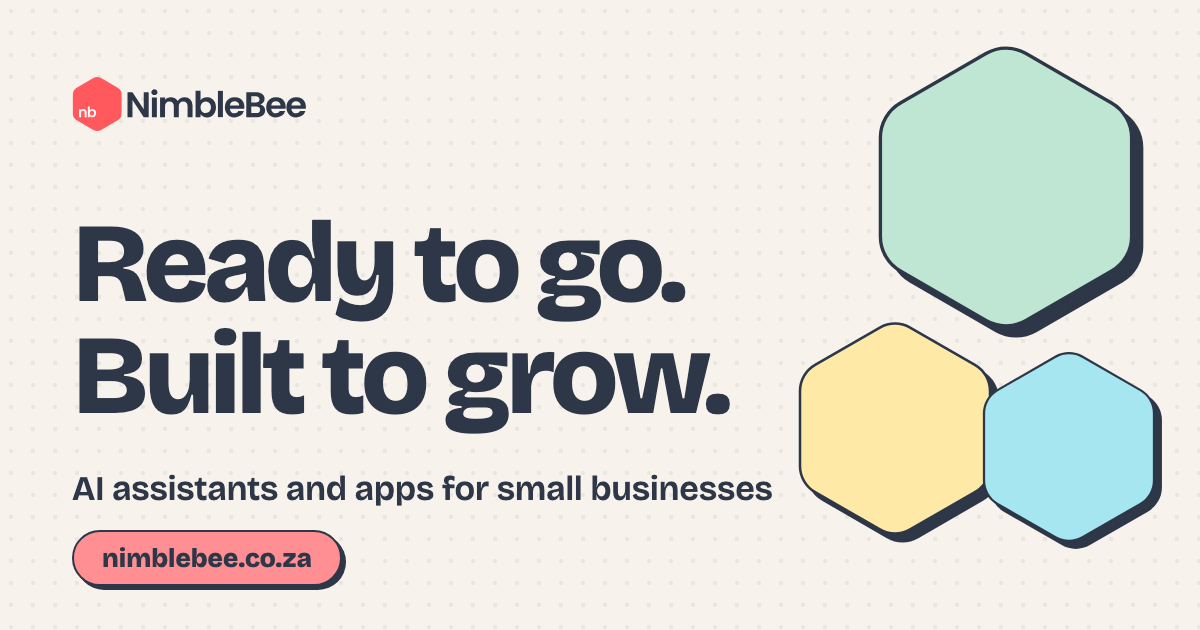
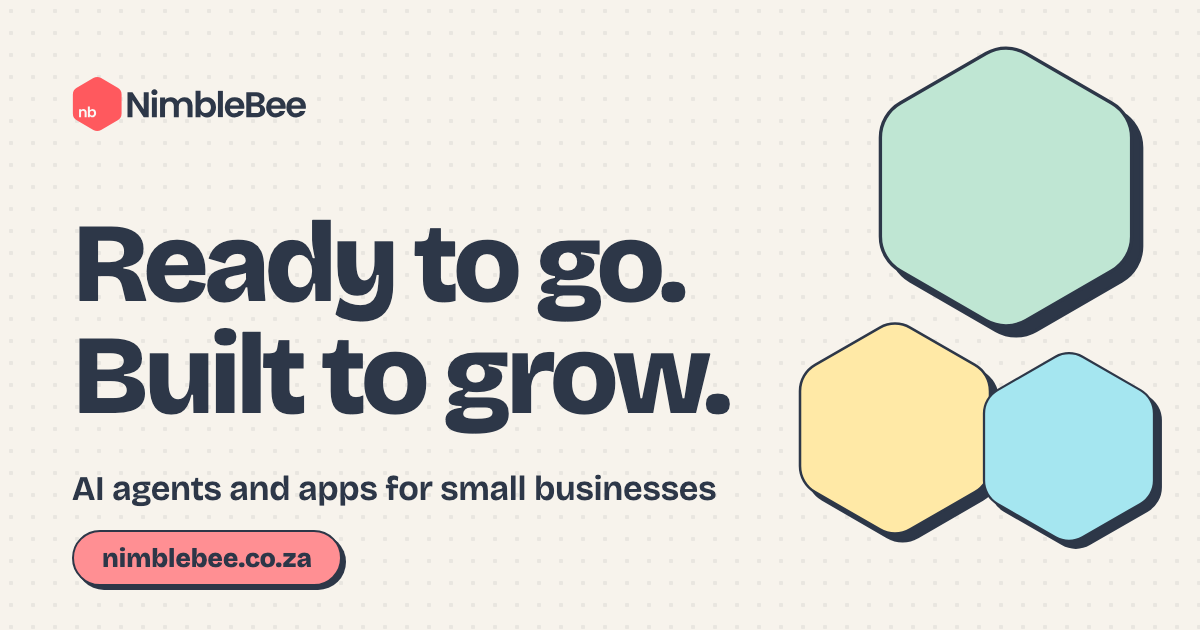
Hero: apply locked copy, six new "I need..." tiles, AI agents wording
- Eyebrow "Business power-up", new lede, tiles in offer order (AI agent, own app, website, training, admin sorted, talk it through)
- New AI agent, admin sorted and talk it through tiles; old Google listing, AI assistant and rocket tiles removed
- Title, meta description, og:description, twitter:description and og:image alt now say AI agents
- Share image re-exported with "AI agents and apps for small businesses"

Changed region(s): [[0.0925, 0.754, 0.6475, 0.8143]]

diff --git a/css/tiles.css b/css/tiles.css
@@ -1,5 +1,5 @@
 /* Hero "I need..." tiles: one mini system per need. Children size in cqw against .nt.
-   Tile order matches the locked list: a website, my Google listing sorted, a wiki, an AI assistant, an app I own, I'm not sure where to start.
+   Tile order matches the locked list: an AI agent, my own app, a website, training & how-to guides, my admin sorted, to talk it through.
    Base styles hold each tile's finished state, so reduced motion (animation: none) shows it without extra rules. */
 .nt{--f:var(--paper);position:relative;container-type:inline-size;border:var(--line) solid var(--ink);border-radius:4.4cqw;background:var(--f);box-shadow:var(--sh-md);overflow:hidden}
 .nt-stage{position:absolute;left:6cqw;right:6cqw;top:6cqw;bottom:19cqw;transition:opacity 300ms}
@@ -18,7 +18,6 @@
 .tiles .slot[role="button"]:hover .nt:not(.on) .nt-stage{opacity:.8}
 .tiles .nt.on{transform:translate(-2px,-3px) rotate(-2deg);box-shadow:var(--sh-lg);z-index:4}
 .tiles.all .nt .nt-stage{opacity:1}
-.tiles .nt.moon.on{z-index:6}
 
 /* Website: header, cards and button snap in; a cursor clicks the button */
 .web{height:100%;border:var(--line) solid var(--ink);border-radius:3cqw;background:var(--paper);overflow:hidden;display:flex;flex-direction:column}
@@ -36,26 +35,6 @@
 @keyframes wb-pop{0%{opacity:0;transform:translateY(-3cqw) scale(.6) rotate(-6deg)}8%{opacity:1;transform:scale(1.08) rotate(2deg)}12%,86%{opacity:1;transform:none}92%,100%{opacity:0;transform:scale(.8)}}
 @keyframes wb-click{0%,55%{background:var(--ink)}57%,84%{background:var(--coral)}90%,100%{background:var(--ink)}}
 @keyframes wb-cur{0%,28%{transform:translate(26cqw,14cqw);opacity:0}34%{opacity:1}50%{transform:none;scale:1}54%{scale:.78}58%,82%{transform:none;scale:1;opacity:1}90%,100%{transform:translate(10cqw,6cqw);opacity:0}}
-
-/* Google listing: a pin drops, the name fills in, five stars pop, then the call and route buttons */
-.gl{height:100%;border:var(--line) solid var(--ink);border-radius:3cqw;background:var(--paper);padding:2.6cqw 3cqw;display:flex;flex-direction:column;justify-content:space-between}
-.gl-top{display:flex;align-items:center;gap:2.6cqw}
-.gl-pin{flex:none;width:11cqw;aspect-ratio:156/180;animation:gl-pin 6s var(--ease) infinite}
-.gl-pin svg{width:100%;height:100%}
-.gl-nm{flex:1;display:flex;flex-direction:column;gap:1.8cqw}
-.gl-nm i{display:block;height:2.4cqw;border-radius:9px;background:var(--ink);transform-origin:left;animation:gl-bar 6s cubic-bezier(.4,0,.2,1) infinite}
-.gl-nm i:first-child{width:80%}
-.gl-nm i:last-child{width:50%;opacity:.22;animation-delay:.14s}
-.gl-st{display:flex;gap:1.2cqw}
-.gl-st svg{width:6.6cqw;aspect-ratio:156/180;animation:gl-pop 6s var(--ease) infinite backwards}
-.nt .gl-st .hxs path{fill:var(--butter)}
-.gl-st svg:nth-child(2){animation-delay:.14s}.gl-st svg:nth-child(3){animation-delay:.28s}.gl-st svg:nth-child(4){animation-delay:.42s}.gl-st svg:nth-child(5){animation-delay:.56s}
-.gl-bt{display:flex;gap:2cqw}
-.gl-bt i{display:block;flex:1;height:6cqw;border:var(--line) solid var(--ink);border-radius:var(--r-pill);background:var(--pink);animation:gl-pop 6s var(--ease) 1.6s infinite backwards}
-.gl-bt i+i{background:var(--mint);animation-delay:1.8s}
-@keyframes gl-pin{0%,3%{opacity:0;transform:translateY(-9cqw) scale(.7)}9%{opacity:1;transform:translateY(1.2cqw) scale(1.08)}13%,86%{opacity:1;transform:none}92%,100%{opacity:0;transform:scale(.8)}}
-@keyframes gl-bar{0%,8%{transform:scaleX(0)}20%,86%{transform:none}92%,100%{transform:scaleX(0)}}
-@keyframes gl-pop{0%,2%{opacity:0;transform:scale(.2) rotate(-14deg)}8%{opacity:1;transform:scale(1.25) rotate(3deg)}12%,84%{opacity:1;transform:none}90%,100%{opacity:0;transform:scale(.4)}}
 
 /* Wiki: pages in the sidebar light up in turn and the page fills with text, then a link pill pops */
 .wk{height:100%;display:grid;grid-template-columns:28cqw minmax(0,1fr);gap:2.4cqw}
@@ -75,27 +54,6 @@
 @keyframes wk-a2{0%,36%{background:var(--paper)}40%,88%{background:var(--cyan)}94%,100%{background:var(--paper)}}
 @keyframes wk-ln{0%,12%{transform:scaleX(0)}24%,34%{transform:none}38%{transform:scaleX(0)}50%,86%{transform:none}92%,100%{transform:scaleX(0)}}
 @keyframes wk-k{0%,56%{opacity:0;transform:scale(.2)}62%{opacity:1;transform:scale(1.25)}66%,88%{opacity:1;transform:none}94%,100%{opacity:0;transform:scale(.4)}}
-
-/* AI assistant: a question arrives, three dots, then the answer fills in and ticks */
-.ai{height:100%;display:flex;flex-direction:column;justify-content:space-between;gap:2cqw}
-.ai-u{align-self:flex-end;width:50cqw;height:9cqw;border:var(--line) solid var(--ink);border-radius:3cqw;background:var(--paper);display:flex;align-items:center;padding:0 3cqw;transform-origin:right bottom;animation:ai-pop 6s var(--ease) infinite}
-.ai-u .nt-bar{flex:1;opacity:.4}
-.ai-r{display:flex;align-items:flex-end;gap:2cqw}
-.ai-av{flex:none;width:10cqw;aspect-ratio:156/180;transform-origin:center bottom;animation:ai-pop2 6s var(--ease) infinite}
-.ai-av svg{width:100%;height:100%}
-.ai-b{position:relative;flex:1;height:17cqw;border:var(--line) solid var(--ink);border-radius:3cqw;background:var(--paper);padding:3cqw;display:flex;flex-direction:column;gap:2cqw;justify-content:center;transform-origin:left bottom;animation:ai-pop2 6s var(--ease) infinite}
-.ai-b .nt-bar{transform-origin:left;animation:ai-ln 6s cubic-bezier(.4,0,.2,1) infinite}
-.ai-b .nt-bar+.nt-bar{width:62%;animation-delay:.14s}
-.ai-dots{position:absolute;left:3cqw;top:50%;display:flex;gap:1.6cqw;translate:0 -50%;opacity:0;animation:ai-dots 6s linear infinite}
-.ai-dots i{display:block;width:2.4cqw;aspect-ratio:1;border-radius:50%;background:var(--ink);animation:ai-bounce 600ms ease-in-out infinite alternate}
-.ai-dots i:nth-child(2){animation-delay:.15s}.ai-dots i:nth-child(3){animation-delay:.3s}
-.ai-tk{position:absolute;right:-2.4cqw;top:-2.4cqw;width:6.4cqw;aspect-ratio:1;border-radius:50%;border:var(--line) solid var(--ink);background:var(--ok);display:grid;place-items:center;animation:ai-tk 6s var(--ease) infinite}
-@keyframes ai-pop{0%,3%{opacity:0;transform:scale(.3) rotate(-6deg)}9%{opacity:1;transform:scale(1.08)}13%,86%{opacity:1;transform:none}92%,100%{opacity:0;transform:scale(.8)}}
-@keyframes ai-pop2{0%,20%{opacity:0;transform:scale(.3) rotate(6deg)}27%{opacity:1;transform:scale(1.08)}31%,86%{opacity:1;transform:none}92%,100%{opacity:0;transform:scale(.8)}}
-@keyframes ai-dots{0%,30%{opacity:0}32%,44%{opacity:1}46%,100%{opacity:0}}
-@keyframes ai-bounce{to{translate:0 -1.4cqw}}
-@keyframes ai-ln{0%,46%{transform:scaleX(0)}58%,86%{transform:none}92%,100%{transform:scaleX(0)}}
-@keyframes ai-tk{0%,62%{scale:0}68%{scale:1.25}72%,88%{scale:1}94%,100%{scale:0}}
 
 /* Your own app: a contact moves lead, call, won (a board you own) */
 .crm{display:grid;grid-template-columns:repeat(3,minmax(0,1fr));gap:3cqw;height:100%}
@@ -119,51 +77,87 @@
   100%{transform:translate(60.6cqw,0);opacity:0}}
 @keyframes crm-tk{0%,77%{scale:0}82%{scale:1.25}86%,94%{scale:1}100%{scale:0}}
 
-/* Not sure where to start: a blank tile turns to night sky, a rocket pops out, hovers, crouches and leaves the page.
-   The sky, stars and rocket sit in .ms-stage so the inactive state can dim the picture and leave the labels alone. */
-.nt.moon{border-style:dashed;overflow:visible;z-index:3}
-.ms-stage{position:absolute;inset:0;border-radius:inherit;transition:opacity 300ms}
-.tiles .nt.moon:not(.on) .ms-stage{opacity:.45}
-.tiles .slot[role="button"]:hover .nt.moon:not(.on) .ms-stage{opacity:.8}
-.tiles.all .nt.moon .ms-stage{opacity:1}
-.ms-sky{position:absolute;inset:0;border-radius:inherit;background:var(--ink);opacity:0;animation:ms-sky 7s ease infinite}
-.ms-blank{position:absolute;left:50%;top:44%;width:30cqw;aspect-ratio:1;translate:-50% -50%;border:var(--line) dashed var(--ink);border-radius:5cqw;display:grid;place-items:center;animation:ms-blank 7s var(--ease) infinite}
-.ms-blank::before,.ms-blank::after{content:"";position:absolute;width:10cqw;height:2.2cqw;border-radius:9px;background:var(--ink)}
-.ms-blank::after{rotate:90deg}
-.ms-st{position:absolute;width:3.4cqw;aspect-ratio:168/192;background:var(--butter);clip-path:polygon(50% 0,100% 25%,100% 75%,50% 100%,0 75%,0 25%);scale:0;animation:ms-st 7s var(--ease) infinite}
-.ms-r{position:absolute;left:50%;bottom:10cqw;width:16cqw;height:31cqw;margin-left:-8cqw;scale:0;z-index:5;animation:ms-r 7s cubic-bezier(.45,0,.3,1) infinite}
-.ms-r>i{position:absolute;display:block;border:var(--line) solid var(--ink)}
-.ms-r .bd{left:2.5cqw;right:2.5cqw;top:0;height:24cqw;background:var(--paper);border-radius:50% 50% 28% 28%/62% 62% 16% 16%}
-.ms-r .wn{left:50%;top:7cqw;width:6cqw;aspect-ratio:1;translate:-50% 0;border-radius:50%;background:var(--cyan)}
-.ms-r .fn{bottom:7cqw;width:5.4cqw;height:9cqw;background:var(--pink)}
-.ms-r .fn.l{left:0;border-radius:70% 0 2cqw 2cqw;rotate:-6deg}
-.ms-r .fn.r{right:0;border-radius:0 70% 2cqw 2cqw;rotate:6deg}
-.ms-r .fl{left:50%;top:22cqw;width:7cqw;height:9cqw;translate:-50% 0;background:var(--butter);border-radius:50% 50% 50% 50%/28% 28% 72% 72%;transform-origin:50% 0;animation:ms-fl 160ms ease-in-out infinite alternate}
-.ms-r .fl::after{content:"";position:absolute;left:28%;right:28%;top:12%;height:52%;border-radius:inherit;background:var(--coral)}
-.ms-pf{position:absolute;left:calc(50% - 10cqw);bottom:5cqw;width:10cqw;aspect-ratio:1;border-radius:50%;border:var(--line) solid var(--ink);background:var(--paper);scale:0;opacity:0;z-index:4;animation:ms-pf 7s ease-out infinite}
-.ms-pf.b{left:calc(50% + 1cqw);width:8cqw;animation-delay:.08s}
-.ms-lb{z-index:4;animation:ms-lb1 7s ease infinite}
-.ms-lb.b{opacity:0;color:var(--paper);animation-name:ms-lb2}
-@keyframes ms-sky{0%,16%{opacity:0}24%,88%{opacity:1}96%,100%{opacity:0}}
-@keyframes ms-blank{0%,14%{scale:1;opacity:1}18%{scale:1.1;opacity:1}22%,92%{scale:.4;opacity:0}100%{scale:1;opacity:1}}
-@keyframes ms-st{0%,22%{scale:0}28%,86%{scale:1}92%,100%{scale:0}}
-@keyframes ms-r{
-  0%,17%{scale:0;transform:translateY(-4cqw)}
-  24%{scale:1.15}28%{scale:1;transform:translateY(-2cqw) rotate(-3deg)}
-  36%{transform:translateY(1cqw) rotate(2deg)}44%{transform:translateY(-1cqw) rotate(-1deg)}52%{transform:translateY(1cqw) rotate(1deg)}
-  60%{scale:1;transform:translateY(3cqw) scale(1.06,.9)}
-  64%{transform:translateY(-6cqw) scale(.94,1.08);animation-timing-function:cubic-bezier(.6,0,.9,.6)}
-  82%{scale:1;transform:translateY(-160vh) scale(.9,1.15)}
-  83%,100%{scale:0;transform:translateY(-160vh)}}
-@keyframes ms-fl{from{scale:1 .75}to{scale:1.05 1.25}}
-@keyframes ms-pf{0%,61%{scale:0;opacity:0}63%{opacity:1;scale:.6}74%{scale:1.3;opacity:1}84%,100%{scale:1.5;opacity:0}}
-@keyframes ms-lb1{0%,18%{opacity:1}22%,92%{opacity:0}100%{opacity:1}}
-@keyframes ms-lb2{0%,20%{opacity:0;translate:0 2cqw}26%,88%{opacity:1;translate:0 0}94%,100%{opacity:0}}
+/* AI agent: owner asks, the robot types and replies, then a task row ticks itself off */
+.ag{height:100%;display:flex;flex-direction:column;justify-content:center;gap:2.8cqw}
+.ag-r{display:flex;align-items:flex-end;gap:2cqw}
+.ag-r.me{justify-content:flex-end}
+.ag-av{flex:none;width:7cqw;aspect-ratio:1;border-radius:50%;border:var(--line) solid var(--ink);background:var(--peach);animation:ag-me 6s var(--ease) infinite}
+.ag-b{position:relative;flex:none;height:11cqw;border:var(--line) solid var(--ink);border-radius:3.4cqw;display:flex;flex-direction:column;justify-content:center;gap:1.6cqw;padding:0 3cqw}
+.ag-b.me{width:44cqw;background:var(--pink);border-bottom-right-radius:.8cqw;transform-origin:100% 100%;animation:ag-me 6s var(--ease) infinite}
+.ag-b.bot{width:50cqw;background:var(--paper);border-bottom-left-radius:.8cqw;transform-origin:0 100%;animation:ag-bot 6s var(--ease) infinite}
+.ag-b.bot .nt-bar{animation:ag-txt 6s ease infinite}
+.ag-dots{position:absolute;left:3cqw;top:50%;translate:0 -50%;display:flex;gap:1.4cqw;animation:ag-dots 6s ease infinite}
+.ag-dots i{width:2.2cqw;aspect-ratio:1;border-radius:50%;background:var(--ink);animation:ag-dot .5s ease-in-out infinite alternate}
+.ag-dots i:nth-child(2){animation-delay:.17s}.ag-dots i:nth-child(3){animation-delay:.34s}
+.ag-bt{position:relative;flex:none;width:9cqw;height:8cqw;border:var(--line) solid var(--ink);border-radius:2.4cqw;background:var(--cyan);display:flex;justify-content:center;align-items:center;gap:1.6cqw;animation:ag-rb 6s var(--ease) infinite}
+.ag-bt::before{content:"";position:absolute;left:50%;bottom:100%;width:2px;height:2.2cqw;margin-left:-1px;background:var(--ink)}
+.ag-bt::after{content:"";position:absolute;left:50%;bottom:calc(100% + 1.8cqw);width:2.8cqw;aspect-ratio:1;margin-left:-1.4cqw;border-radius:50%;border:var(--line) solid var(--ink);background:var(--coral);animation:ag-ant 6s ease infinite}
+.ag-bt i{width:1.7cqw;aspect-ratio:1;border-radius:50%;background:var(--ink);animation:ag-blink 3s ease infinite}
+.ag-tk{flex:none;display:flex;align-items:center;gap:2cqw;height:11cqw;margin-left:11cqw;border:var(--line) solid var(--ink);border-radius:3cqw;background:var(--paper);padding:0 2.6cqw;animation:ag-task 6s var(--ease) infinite}
+.ag-tk .nt-bar{flex:1;max-width:60%}
+.ag-cb{position:relative;flex:none;width:6.4cqw;aspect-ratio:1;border:var(--line) solid var(--ink);border-radius:1.8cqw;background:var(--paper)}
+.ag-cf{position:absolute;inset:-2px;border:var(--line) solid var(--ink);border-radius:1.8cqw;background:var(--ok);display:grid;place-items:center;scale:0;animation:ag-check 6s var(--ease) infinite}
+@keyframes ag-me{0%,3%{opacity:0;scale:.5}8%{opacity:1;scale:1.08}12%,86%{opacity:1;scale:1}92%,100%{opacity:0;scale:.8}}
+@keyframes ag-bot{0%,16%{opacity:0;scale:.5}21%{opacity:1;scale:1.08}25%,86%{opacity:1;scale:1}92%,100%{opacity:0;scale:.8}}
+@keyframes ag-dots{0%,30%{opacity:1}33%,100%{opacity:0}}
+@keyframes ag-dot{from{translate:0 .8cqw}to{translate:0 -.8cqw}}
+@keyframes ag-txt{0%,31%{opacity:0}35%,86%{opacity:.3}92%,100%{opacity:0}}
+@keyframes ag-rb{0%{opacity:0;scale:.5}4%{opacity:1;scale:1.12}7%,88%{opacity:1;scale:1}94%,100%{opacity:0;scale:.8}}
+@keyframes ag-ant{0%,17%,23%,29%,100%{scale:1}20%,26%{scale:1.45}}
+@keyframes ag-blink{0%,44%,50%,100%{scale:1 1}47%{scale:1 .15}}
+@keyframes ag-task{0%,40%{opacity:0;transform:translateY(3cqw) scale(.8)}45%{opacity:1;transform:translateY(-.6cqw) scale(1.04)}49%,86%{opacity:1;transform:none}92%,100%{opacity:0;transform:scale(.9)}}
+@keyframes ag-check{0%,54%{scale:0}58%{scale:1.3}62%,86%{scale:1}92%,100%{scale:0}}
+
+/* Admin sorted: loose folders pop in and jiggle, then file themselves into a tray, ending on a tick */
+.ad{position:relative;height:100%}
+.ad-f{position:absolute;left:50%;bottom:5cqw;width:42cqw;height:24cqw;margin-left:-21cqw;border:var(--line) solid var(--ink);border-radius:2.4cqw;background:var(--ff);animation:ad-f 6s var(--ease) infinite backwards}
+.ad-f::before{content:"";position:absolute;bottom:calc(100% - 2px);left:var(--tx);width:12cqw;height:calc(4cqw + 2px);border:var(--line) solid var(--ink);border-bottom:0;border-radius:1.6cqw 1.6cqw 0 0;background:var(--ff)}
+.ad-f.f1{--ff:var(--peach);--tx:2cqw;--sx:-20cqw;--sy:-20cqw;--sr:-14deg;--ry:-9cqw}
+.ad-f.f2{--ff:var(--cyan);--tx:14cqw;--sx:22cqw;--sy:-22cqw;--sr:12deg;--ry:-6cqw;animation-delay:.12s}
+.ad-f.f3{--ff:var(--pink);--tx:27cqw;--sx:-24cqw;--sy:-1cqw;--sr:9deg;--ry:-3cqw;animation-delay:.24s}
+.ad-f.f4{--ff:var(--mint);--tx:8cqw;--sx:21cqw;--sy:-3cqw;--sr:-10deg;--ry:0cqw;animation-delay:.36s}
+.ad-tray{position:absolute;left:50%;bottom:0;width:54cqw;height:17cqw;margin-left:-27cqw;border:var(--line) solid var(--ink);border-radius:2cqw 2cqw 3.4cqw 3.4cqw;background:var(--paper);z-index:2;display:grid;place-items:center;animation:ad-tray 6s var(--ease) infinite}
+.ad-tray i{display:block;width:16cqw;height:3.6cqw;border:var(--line) solid var(--ink);border-radius:999px;background:var(--bg)}
+.ad-ok{position:absolute;right:12.5cqw;bottom:12.5cqw;width:9cqw;aspect-ratio:1;border-radius:50%;border:var(--line) solid var(--ink);background:var(--ok);display:grid;place-items:center;z-index:3;scale:0;animation:ad-ok 6s var(--ease) infinite}
+@keyframes ad-f{
+  0%{opacity:0;transform:translate(var(--sx),var(--sy)) rotate(var(--sr)) scale(.6)}
+  6%{opacity:1;transform:translate(var(--sx),var(--sy)) rotate(var(--sr)) scale(1.06)}
+  10%{transform:translate(var(--sx),var(--sy)) rotate(calc(var(--sr) * -.4))}
+  14%{transform:translate(var(--sx),var(--sy)) rotate(var(--sr))}
+  18%{transform:translate(var(--sx),var(--sy)) rotate(calc(var(--sr) * -.4))}
+  22%{transform:translate(var(--sx),var(--sy)) rotate(var(--sr))}
+  36%,86%{opacity:1;transform:translate(0,var(--ry)) rotate(0deg)}
+  92%,100%{opacity:0;transform:translate(0,var(--ry)) scale(.9)}}
+@keyframes ad-tray{0%{opacity:0;scale:.6}4%{opacity:1;scale:1.06}7%,40%{opacity:1;scale:1;transform:none}43%{transform:translateY(1cqw) scale(1.03,.96)}47%,88%{opacity:1;scale:1;transform:none}94%,100%{opacity:0;scale:.9}}
+@keyframes ad-ok{0%,50%{scale:0}55%{scale:1.3}59%,86%{scale:1}92%,100%{scale:0}}
+
+/* Talk it through: two mugs take turns, steam rises, then a gentle clink */
+.tt{position:relative;height:100%}
+.tt-tb{position:absolute;left:4cqw;right:4cqw;bottom:2cqw;border-top:var(--line) solid var(--ink)}
+.mug{position:absolute;bottom:calc(2cqw + 1px);width:21cqw;height:21cqw;border:var(--line) solid var(--ink);border-radius:1.2cqw 1.2cqw 5.4cqw 5.4cqw;background:var(--mf);transform-origin:50% 100%}
+.mug::after{content:"";position:absolute;top:3.6cqw;width:6cqw;height:10cqw;border:var(--line) solid var(--ink)}
+.mug.l{left:16cqw;--mf:var(--pink);animation:tt-l 6s var(--ease) infinite}
+.mug.l::after{right:100%;border-right:0;border-radius:5cqw 0 0 5cqw}
+.mug.r{right:16cqw;--mf:var(--cyan);animation:tt-r 6s var(--ease) infinite}
+.mug.r::after{left:100%;border-left:0;border-radius:0 5cqw 5cqw 0}
+.mug .hx{position:absolute;left:50%;top:55%;width:7cqw;aspect-ratio:168/192;translate:-50% -50%;background:var(--paper);clip-path:polygon(50% 0,100% 25%,100% 75%,50% 100%,0 75%,0 25%)}
+.mug.l .hx{background:var(--coral)}
+.stm{position:absolute;bottom:calc(100% + 1cqw);width:5cqw;height:13cqw;opacity:0;animation:tt-st 3s ease-in-out infinite}
+.stm.a{left:4cqw}.stm.b{left:11cqw;animation-delay:1.5s}
+.stm svg{display:block;width:100%;height:100%;overflow:visible}
+.tt-sp{position:absolute;left:50%;bottom:22cqw;width:12cqw;height:8cqw;margin-left:-6cqw;scale:0;opacity:0;animation:tt-sp 6s var(--ease) infinite}
+.tt-sp svg{display:block;width:100%;height:100%;overflow:visible}
+@keyframes tt-l{0%{opacity:0;transform:translateY(4cqw) scale(.7)}5%{opacity:1;transform:scale(1.05)}8%{transform:none}12%{transform:translateY(-3cqw) rotate(6deg)}16%,36%{transform:none}40%{transform:translateY(-3cqw) rotate(6deg)}44%,52%{transform:none}57%{transform:translateX(4cqw) rotate(10deg)}61%{transform:translateX(3cqw) rotate(7deg)}68%,88%{opacity:1;transform:none}94%,100%{opacity:0;transform:scale(.9)}}
+@keyframes tt-r{0%{opacity:0;transform:translateY(4cqw) scale(.7)}5%{opacity:1;transform:scale(1.05)}8%,22%{transform:none}26%{transform:translateY(-3cqw) rotate(-6deg)}30%,52%{transform:none}57%{transform:translateX(-4cqw) rotate(-10deg)}61%{transform:translateX(-3cqw) rotate(-7deg)}68%,88%{opacity:1;transform:none}94%,100%{opacity:0;transform:scale(.9)}}
+@keyframes tt-st{0%{opacity:0;transform:translateY(3cqw) scaleY(.6)}30%{opacity:.85}70%{opacity:.55}100%{opacity:0;transform:translateY(-4cqw) scaleY(1.1)}}
+@keyframes tt-sp{0%,55%{scale:0;opacity:0}58%{scale:1.2;opacity:1}63%{scale:1;opacity:1}70%,100%{scale:1.2;opacity:0}}
+.stm path,.tt-sp path{fill:none;stroke:var(--ink);stroke-width:2.2;stroke-linecap:round;vector-effect:non-scaling-stroke}
 
 .nb-paused .nt *,.nb-paused .nt{animation-play-state:paused!important}
 
 /* reduced motion: every tile shows its finished state (base.css already switches animation off) */
 @media (prefers-reduced-motion:reduce){
-  .ai-dots{display:none}
-  .ms-sky{opacity:1}.ms-blank{opacity:0}.ms-st{scale:1}.ms-r{scale:1;transform:none}.ms-pf{opacity:0}.ms-lb{opacity:0}.ms-lb.b{opacity:1}
+  .ag-dots{opacity:0}.ag-b.bot .nt-bar{opacity:.3}.ag-cf{scale:1}
+  .ad-f{transform:translate(0,var(--ry))}.ad-ok{scale:1}
+  .stm{opacity:.7}
 }

diff --git a/js/tiles.js b/js/tiles.js
@@ -8,24 +8,27 @@ var HXP='M87.01,32.50 Q100.00,25.00 112.99,32.50 L164.95,62.50 Q177.94,70.00 177
 function hex(cls){return'<svg class="hxs'+(cls?' '+cls:'')+'" viewBox="22 25 156 180" aria-hidden="true"><path d="'+HXP+'"/></svg>'}
 var TKS='<svg class="tks" viewBox="0 0 24 24" aria-hidden="true"><path d="m5 12.5 4.5 4.5L19 7.5"/></svg>';
 
+var STM='<svg viewBox="0 0 10 26" aria-hidden="true"><path d="M5 25C1 20 9 16 5 11 2 7 8 4 5 1"/></svg>';
+function stm(c,d){return'<span class="stm '+c+'"'+(d?' style="animation-delay:'+d+'s"':'')+'>'+STM+'</span>'}
+
 NB.TILES=[
+  {k:'ag',w:'an AI agent',lab:'AI agent',f:'butter',ms:6000,rest:5000},
+  {k:'app',w:'my own app',lab:'Your own app',f:'peach',ms:6000,rest:5000},
   {k:'web',w:'a website',lab:'Website',f:'cyan',ms:6000,rest:3200},
-  {k:'gl',w:'my Google listing sorted',lab:'Google listing',f:'butter',ms:6000,rest:4600},
-  {k:'wk',w:'a wiki',lab:'Wiki',f:'mint',ms:6000,rest:4800},
-  {k:'ai',w:'an AI assistant',lab:'AI assistant',f:'pink',ms:6000,rest:4800},
-  {k:'app',w:'an app I own',lab:'Your own app',f:'peach',ms:6000,rest:5000},
-  {k:'ns',w:'I’m not sure where to start',solo:true,lab:'Not sure',f:'paper',ms:7000,rest:300}
+  {k:'wk',w:'training & how-to guides',lab:'Training',f:'mint',ms:6000,rest:4800},
+  {k:'ad',w:'my admin sorted',lab:'Admin sorted',f:'pink',ms:6000,rest:5000},
+  {k:'tt',w:'to talk it through',lab:'Talk it through',f:'mint',ms:6000,rest:5000}
 ];
 
 NB.tileHTML=function(k){
   var lb=function(t){return'<div class="nt-lb">'+t+'</div>'},st=function(h){return'<div class="nt-stage">'+h+'</div>'},bar='<i class="nt-bar"></i>';
-  var it=NB.TILES.filter(function(x){return x.k===k})[0],cls='nt'+(k==='ns'?' moon':''),h;
+  var it=NB.TILES.filter(function(x){return x.k===k})[0],cls='nt',h;
   if(k==='web')h=st('<div class="web"><div class="wb-top"><i></i><i></i><i></i></div><div class="wb-body"><i class="wb-h"></i><i class="wb-c"></i><i class="wb-c b"></i><i class="wb-btn"></i></div></div><svg class="wb-cur" viewBox="0 0 24 24" aria-hidden="true"><path d="M5 3l14 8-6 1.6L10 19z"/></svg>')+lb(it.lab);
-  if(k==='gl')h=st('<div class="gl"><div class="gl-top"><span class="gl-pin">'+hex()+'</span><div class="gl-nm"><i></i><i></i></div></div><div class="gl-st">'+hex('sm')+hex('sm')+hex('sm')+hex('sm')+hex('sm')+'</div><div class="gl-bt"><i></i><i></i></div></div>')+lb(it.lab);
   if(k==='wk')h=st('<div class="wk"><div class="wk-nv"><i></i><i></i><i></i></div><div class="wk-pg"><i class="wk-t"></i><i class="wk-l"></i><i class="wk-l"></i><i class="wk-l"></i><i class="wk-k"></i></div></div>')+lb(it.lab);
-  if(k==='ai')h=st('<div class="ai"><div class="ai-u">'+bar+'</div><div class="ai-r"><span class="ai-av">'+hex()+'</span><div class="ai-b">'+bar+bar+'<span class="ai-dots"><i></i><i></i><i></i></span><span class="ai-tk">'+TKS+'</span></div></div></div>')+lb(it.lab);
   if(k==='app')h=st('<div class="crm"><div class="lane"><i class="hd"></i><i class="sp"></i><div class="cc"><i class="av"></i>'+bar+'</div></div><div class="lane"><i class="hd" style="width:44%"></i><i class="sp"></i><div class="cc"><i class="av" style="background:var(--butter)"></i>'+bar+'</div></div><div class="lane"><i class="hd" style="width:52%"></i><i class="sp"></i></div></div><div class="cc mv"><i class="av"></i>'+bar+'<span class="tk">'+TKS+'</span></div>')+lb(it.lab);
-  if(k==='ns')h='<div class="ms-stage"><i class="ms-sky"></i>'+[[14,16],[78,12],[84,50],[22,48],[60,8]].map(function(p,n){return'<i class="ms-st" style="left:'+p[0]+'%;top:'+p[1]+'%;animation-delay:'+(n*.12).toFixed(2)+'s"></i>'}).join('')+'<i class="ms-blank"></i><i class="ms-pf"></i><i class="ms-pf b"></i><div class="ms-r"><i class="fl"></i><i class="fn l"></i><i class="fn r"></i><i class="bd"></i><i class="wn"></i></div></div><div class="nt-lb ms-lb">Not sure?</div><div class="nt-lb ms-lb b">We’ll guide you</div>';
+  if(k==='ag')h=st('<div class="ag"><div class="ag-r me"><div class="ag-b me"><i class="nt-bar" style="opacity:.35"></i><i class="nt-bar" style="width:62%;opacity:.35"></i></div><i class="ag-av"></i></div><div class="ag-r"><div class="ag-bt"><i></i><i></i></div><div class="ag-b bot"><span class="ag-dots"><i></i><i></i><i></i></span>'+bar+'<i class="nt-bar" style="width:70%"></i></div></div><div class="ag-tk"><span class="ag-cb"><span class="ag-cf">'+TKS+'</span></span>'+bar+'</div></div>')+lb(it.lab);
+  if(k==='ad')h=st('<div class="ad"><i class="ad-f f1"></i><i class="ad-f f2"></i><i class="ad-f f3"></i><i class="ad-f f4"></i><div class="ad-tray"><i></i></div><span class="ad-ok">'+TKS+'</span></div>')+lb(it.lab);
+  if(k==='tt')h=st('<div class="tt"><div class="mug l">'+stm('a')+stm('b')+'<i class="hx"></i></div><div class="mug r">'+stm('a',.75)+stm('b',2.25)+'<i class="hx" style="background:var(--butter)"></i></div><span class="tt-sp"><svg viewBox="0 0 24 16" aria-hidden="true"><path d="M12 10V2M5 12 1 7M19 12l4-5"/></svg></span><i class="tt-tb"></i></div>')+lb(it.lab);
   return'<div class="'+cls+'" style="--f:var(--'+it.f+')" data-k="'+k+'">'+h+'</div>';
 };
 })();

diff --git a/index.html b/index.html
@@ -3,21 +3,22 @@
 <head>
 <meta charset="utf-8">
 <meta name="viewport" content="width=device-width, initial-scale=1">
-<title>NimbleBee: AI assistants and apps for small businesses</title>
-<meta name="description" content="NimbleBee builds AI assistants and apps for small businesses. Not sure where to start? Tell us what you need and we'll guide you.">
+<title>NimbleBee: AI agents and apps for small businesses</title>
+<meta name="description" content="NimbleBee builds AI agents, apps and no-code tools for solo owners and small teams. Tell us what you need and we'll take it from there.">
 <link rel="canonical" href="https://www.nimblebee.co.za/">
 <meta name="theme-color" content="#F7F3EC">
 <meta property="og:type" content="website">
 <meta property="og:site_name" content="NimbleBee">
 <meta property="og:locale" content="en_ZA">
 <meta property="og:url" content="https://www.nimblebee.co.za/">
-<meta property="og:title" content="NimbleBee: AI assistants and apps for small businesses">
-<meta property="og:description" content="Not sure where to start with AI? Tell us what you need and we'll guide you.">
+<meta property="og:title" content="NimbleBee: AI agents and apps for small businesses">
+<meta property="og:description" content="NimbleBee builds AI agents, apps and no-code tools for solo owners and small teams. Tell us what you need and we'll take it from there.">
 <meta property="og:image" content="https://www.nimblebee.co.za/assets/share/nimblebee-share.png">
 <meta property="og:image:width" content="1200">
 <meta property="og:image:height" content="630">
-<meta property="og:image:alt" content="NimbleBee: Ready to go. Built to grow. AI assistants and apps for small businesses.">
+<meta property="og:image:alt" content="NimbleBee: Ready to go. Built to grow. AI agents and apps for small businesses.">
 <meta name="twitter:card" content="summary_large_image">
+<meta name="twitter:description" content="NimbleBee builds AI agents, apps and no-code tools for solo owners and small teams. Tell us what you need and we'll take it from there.">
 <link rel="preload" href="assets/fonts/bricolage-grotesque-latin-500-normal.woff2" as="font" type="font/woff2" crossorigin>
 <link rel="preload" href="assets/fonts/bricolage-grotesque-latin-800-normal.woff2" as="font" type="font/woff2" crossorigin>
 <link rel="stylesheet" href="css/fonts.css">
@@ -59,16 +60,16 @@
 <section class="hero" id="nb-hero" data-mod="hero">
   <div class="wrap hgrid">
     <div class="htext">
-      <span class="chip">Digital systems for small businesses</span>
+      <span class="chip">Business power-up</span>
       <h1 class="kin display-h1" data-mod="kin" aria-label="Ready to go. Built to grow.">Ready to go. Built to grow.</h1>
-      <p class="lede">You started your business because you loved something. Somewhere along the way, you became the admin team, customer support, and IT department. NimbleBee builds the systems that change that. Getting you back to the thing you love.</p>
+      <p class="lede">We build AI agents, apps and no-code tools for solo owners and small teams. Tell us your ideas, needs or challenges, and we'll take it from there. Get your day back.</p>
       <div class="ctas">
         <a class="btn" href="mailto:seth@nimblebee.co.za">Let's talk <span class="ic" aria-hidden="true"><svg viewBox="0 0 24 24"><use href="#i-ar"/></svg></span></a>
         <button class="btn icon sm alt pausebtn" type="button" data-pause aria-pressed="false" aria-label="Pause animation"><span class="ic" aria-hidden="true"><svg viewBox="0 0 24 24"><use href="#i-pause"/></svg></span></button>
       </div>
     </div>
     <div class="gcol">
-      <div class="gwrap" data-mod="bubble" role="group" aria-label="A speech bubble types out what a small business might need: a website, my Google listing sorted, a wiki, an AI assistant, an app I own, or I'm not sure where to start. The matching tile lights up and acts out that need.">
+      <div class="gwrap" data-mod="bubble" role="group" aria-label="A speech bubble types out what a small business might need: an AI agent, my own app, a website, training and how-to guides, my admin sorted, or to talk it through. The matching tile lights up and acts out that need.">
         <button class="bub" type="button" aria-label="Show another need"><span class="t"><span class="pre">I need </span><span class="w"></span><i class="caret"></i></span></button>
         <p class="bhint">Tap the bubble or a tile to skip ahead.</p>
         <div class="tiles" aria-hidden="true"><div class="slot"></div><div class="slot"></div><div class="slot"></div><div class="slot"></div><div class="slot"></div><div class="slot"></div></div>

diff --git a/js/bubble.js b/js/bubble.js
@@ -5,7 +5,7 @@ var NB=window.NB,$=NB.$,$$=NB.$$;
 NB.mods.bubble=function(w){
   var wd=$('.w',w),pre=$('.pre',w),slots=$$('.slot',w),bub=$('.bub',w),box=$('.tiles',w),IT=NB.TILES;
   var ts=IT.map(function(it,k){slots[k].innerHTML=NB.tileHTML(it.k);return slots[k].firstChild});
-  if(NB.reduce){box.classList.add('all');wd.textContent='a website, a wiki, an AI assistant…';return}
+  if(NB.reduce){box.classList.add('all');wd.textContent='an AI agent, my own app, a website…';return}
   var an=function(t){return t.getAnimations?t.getAnimations({subtree:true}):[]};
   var cur=-1,gen=0,idx=0,SP=1.25;
   function rest(k){ts[k].classList.remove('on');an(ts[k]).forEach(function(a){a.pause();a.currentTime=IT[k].rest})}
